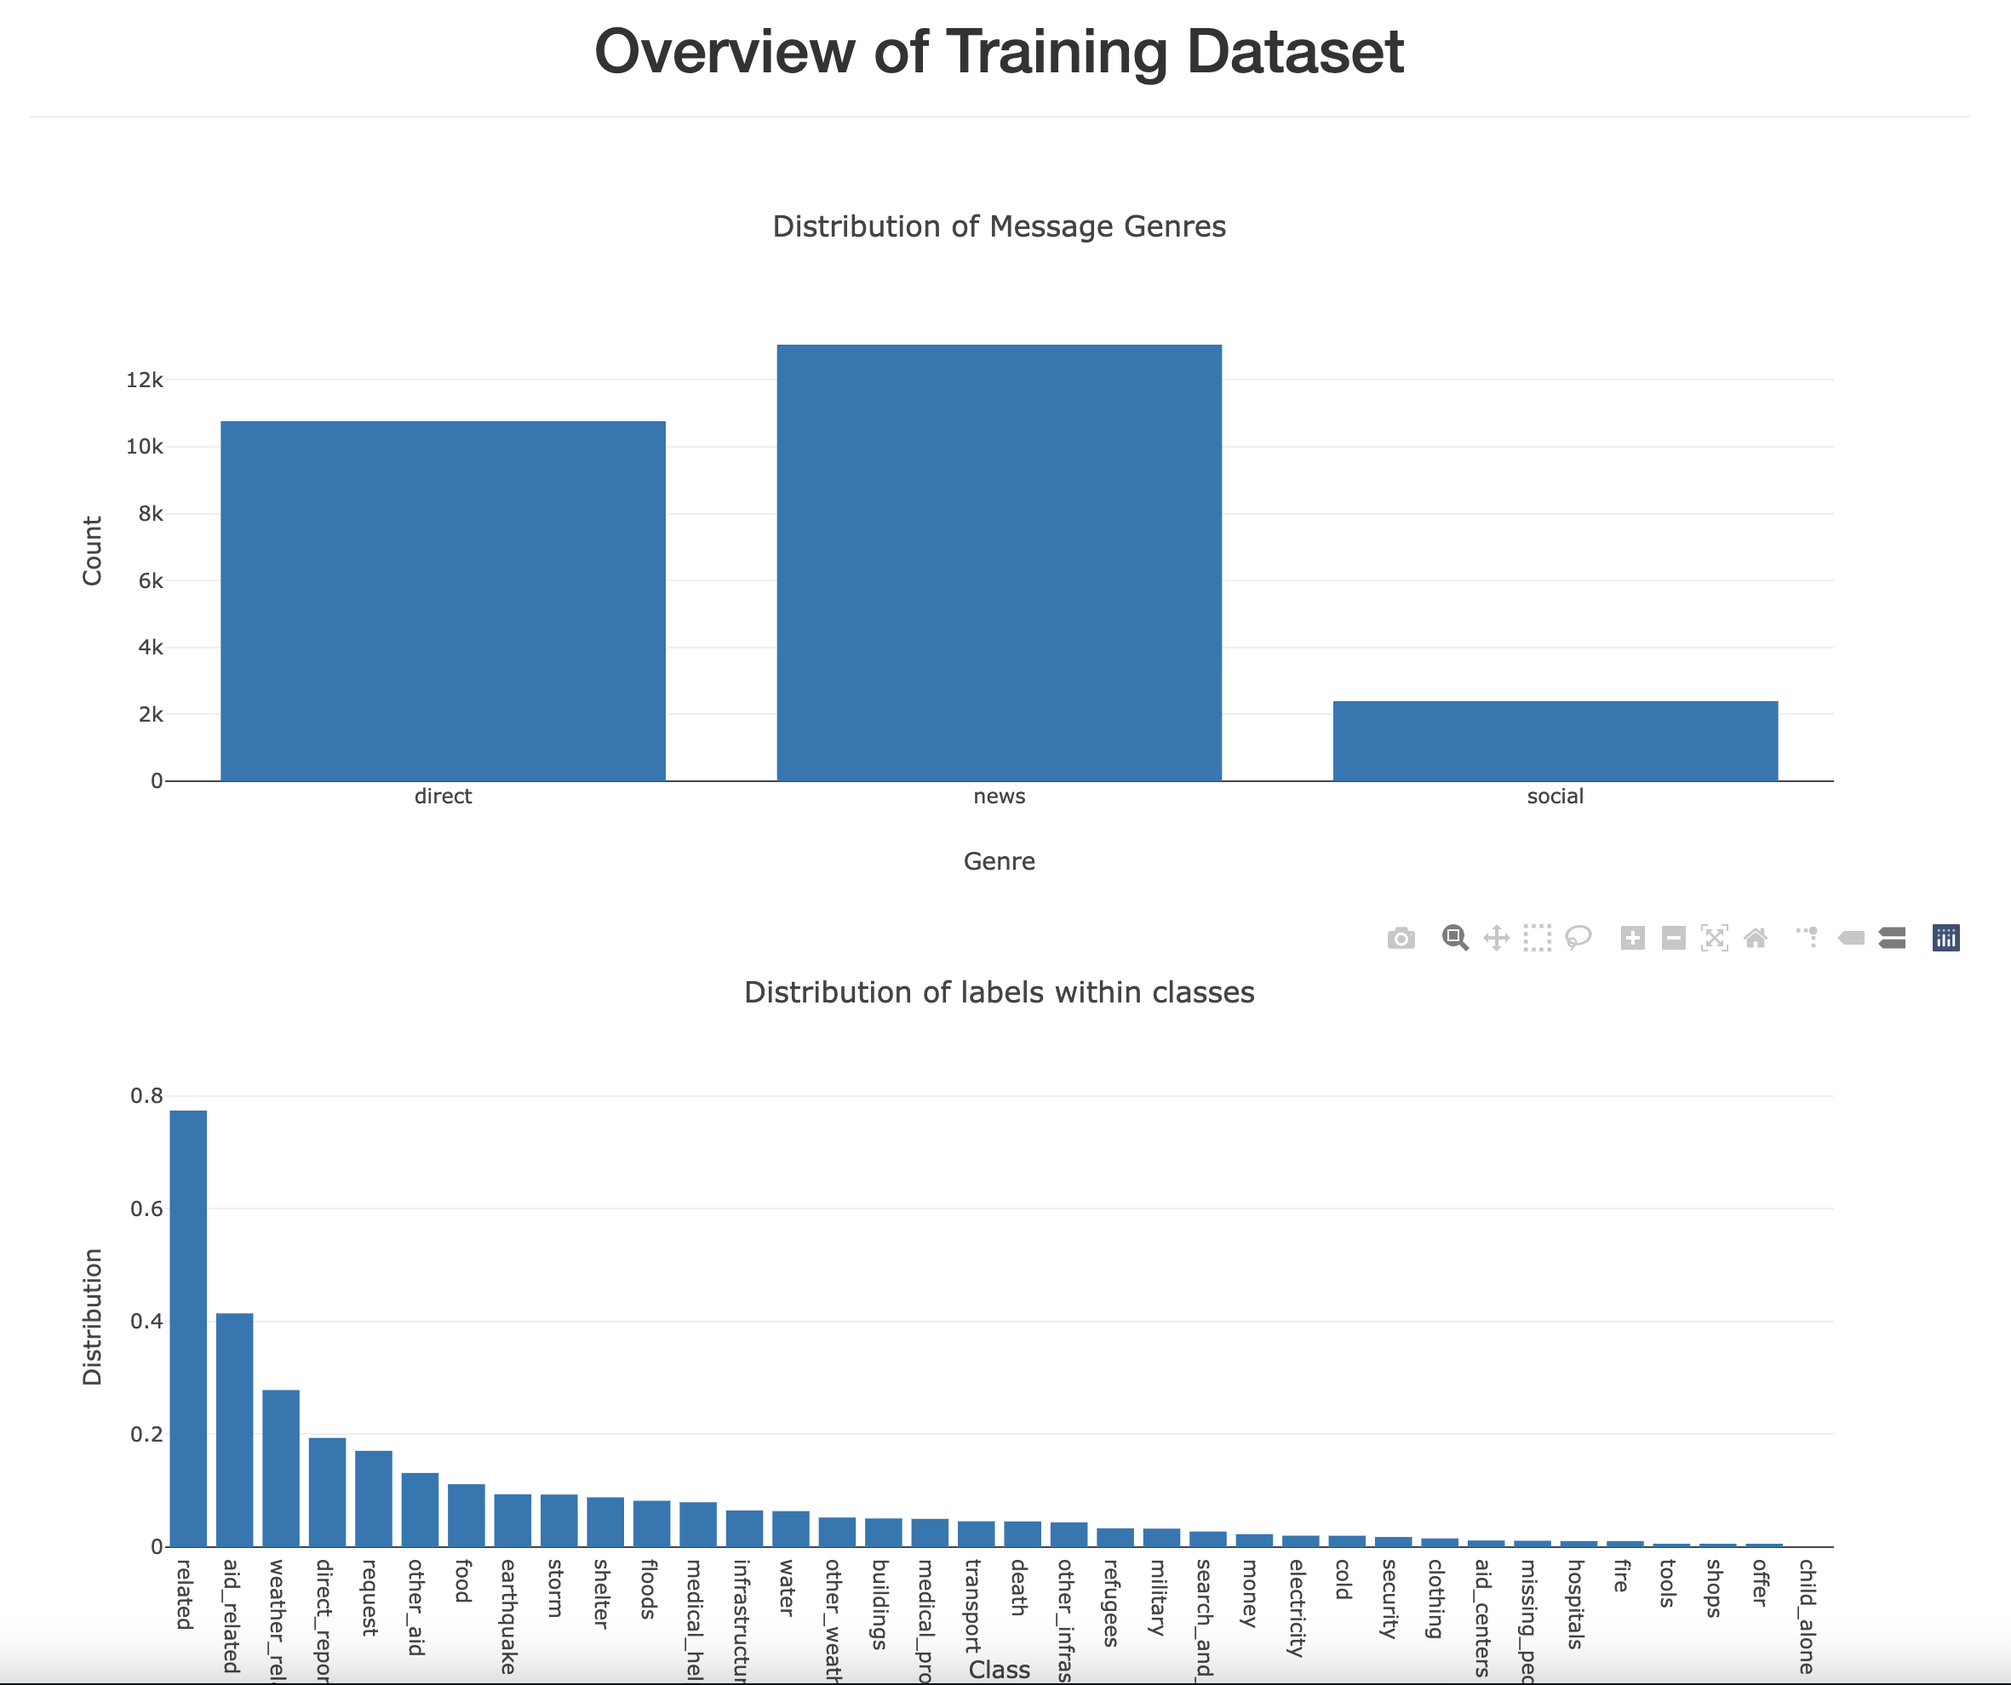
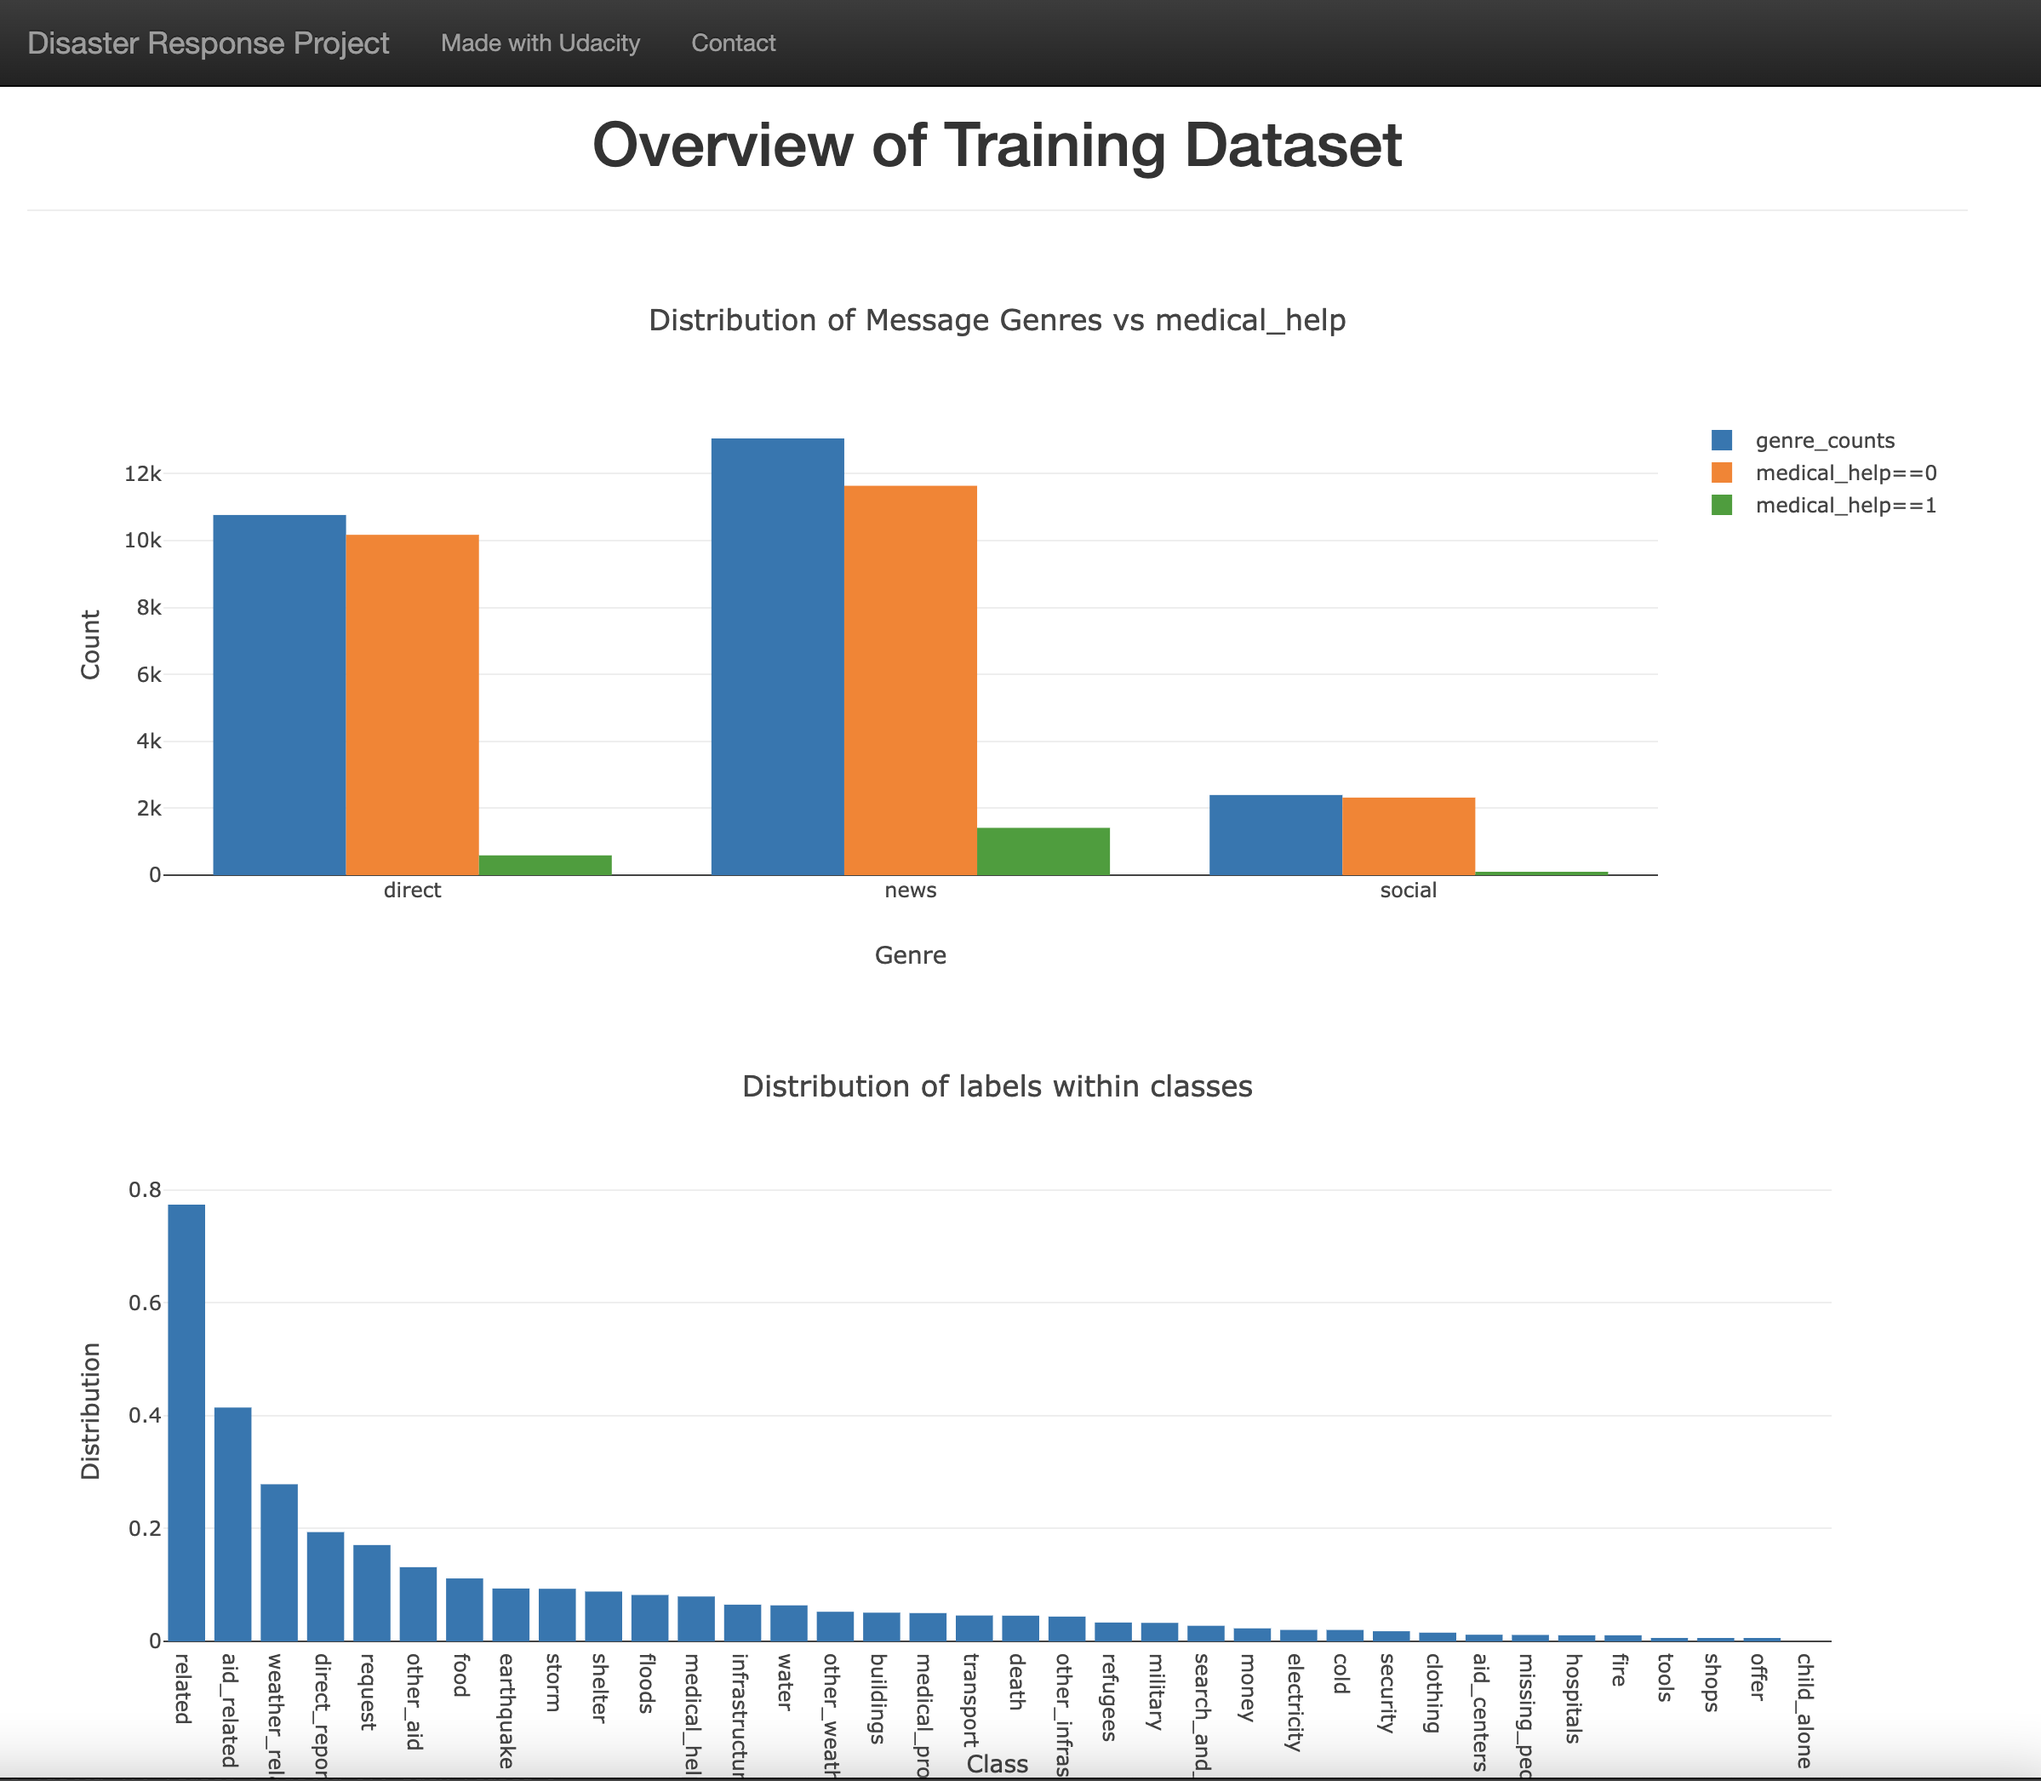
modified the source code

diff --git a/app/run.py b/app/run.py
@@ -42,12 +42,14 @@ def index():
     # TODO: Below is an example - modify to extract data for your own visuals
     genre_counts = df.groupby('genre').count()['message']
     genre_names = list(genre_counts.index)
+    medical_help_1=df[df["medical_help"]==1].groupby('genre').count()['message']
+    medical_help_0=df[df["medical_help"]==0].groupby('genre').count()['message']
     
     # let's calculate distribution of classes with 1
     class_distr1 = df.drop(['id', 'message', 'original', 'genre'], axis = 1).sum()/len(df)
     #sorting values in ascending
     class_distr1 = class_distr1.sort_values(ascending = False)
-    class_distr0 = (class_distr1 -1) * -1
+    #class_distr0 = (class_distr1 -1) * -1
     class_name = list(class_distr1.index)
     
     # create visuals
@@ -57,12 +59,23 @@ def index():
             'data': [
                 Bar(
                     x=genre_names,
-                    y=genre_counts
+                    y=genre_counts,
+                    name="genre_counts"
+                ),
+                Bar(
+                    x=genre_names,
+                    y=medical_help_0,
+                    name="medical_help==0"
+                ),
+                Bar(
+                    x=genre_names,
+                    y=medical_help_1,
+                    name="medical_help==1"
                 )
             ],
 
             'layout': {
-                'title': 'Distribution of Message Genres',
+                'title': 'Distribution of Message Genres vs medical_help',
                 'yaxis': {
                     'title': "Count"
                 },
